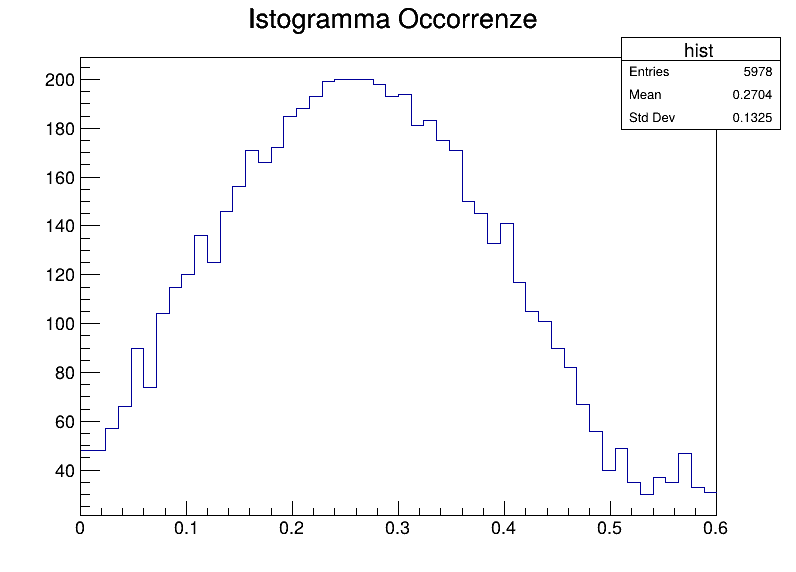
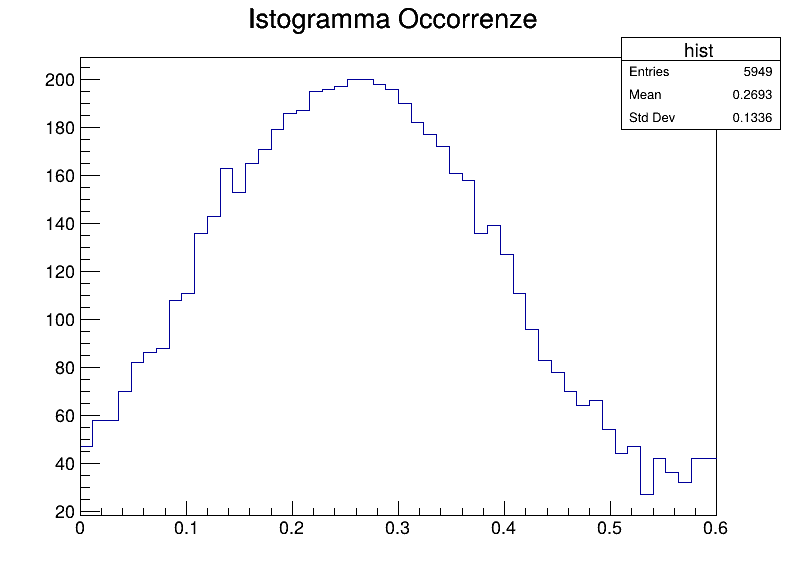
modifiche hit or miss e chi2

diff --git a/lab1/root_macro.C b/lab1/root_macro.C
@@ -20,7 +20,6 @@ class macro {
   }
 
   TF1* cos_function(double norm = 1.) {
-    // now includes an overall amplitude parameter [3] so the function can be renormalized
     TF1* cos = new TF1("Funzione coseno", "[3]*((cos([0]*x + [1]))^2 + [2])", 0., 0.6);
     cos->SetParameters(k_, phi_, b_, norm);
     return cos;
@@ -28,14 +27,24 @@ class macro {
 
   TGraph* random_generation_graph(int n) {
     std::vector<double> vx, vy;
-    for (float i{0.f}; i < 0.6f; i += 0.6 / n) {
-      double upper_bound = cos_function()->Eval(i);
-      double y           = gRandom->Uniform(0., 1.2);
-      if (y <= upper_bound) {
-        vx.push_back(i);
-        vy.push_back(y);
-      }
-    }
+    // for (float i{0.f}; i < 0.6f; i += 0.6 / n) {
+    //   double upper_bound = cos_function()->Eval(i);
+    //   double y           = gRandom->Uniform(0., 1.2);
+    //   if (y <= upper_bound) {
+    //     vx.push_back(i);
+    //     vy.push_back(y);
+    //   }
+    // }
+    //OPPURE
+    for (int i{0}; i < n; ++i) {
+       double x = gRandom->Uniform(0., 0.6);
+       double upper_bound = cos_function()->Eval(x);
+       double y = gRandom->Uniform(0., 1.2);
+       if (y <= upper_bound) {
+         vx.push_back(x);
+         vy.push_back(y);
+       }
+     }
     TGraph* graph = new TGraph(vx.size(), &vx[0], &vy[0]);
     return graph;
   }
@@ -70,7 +79,9 @@ class macro {
     std::vector<double> diff, sigma;
     auto binWidth = 0.6 / b;
     for (int i = 0; i < b; ++i) {
-      auto cosIntegral = cosScaled->Integral(i, i + binWidth);
+      double xlow = hist1->GetBinLowEdge(i+1);
+      double xup = hist1->GetBinLowEdge(i+2);
+      double cosIntegral = cosScaled->Integral(xlow, xup);
       diff.push_back(cosIntegral - hist1->GetBinContent(i));
       sigma.push_back(cosIntegral);
       // std::cout << "Differnenza bin " << i << " " << cosIntegral - hist1->GetBinContent(i) << "\n";
@@ -98,7 +109,7 @@ class macro {
     c1->SaveAs("grafico.png");
 
     TCanvas* c2 = new TCanvas("c2", "Estrazione punti", 800, 600);
-    random_generation_graph(10000)->Draw();
+    random_generation_graph(10000)->Draw("AP");
     c2->SaveAs("punti.png");
 
     TCanvas* c3 = new TCanvas("c3", "Istogramma", 800, 600);
